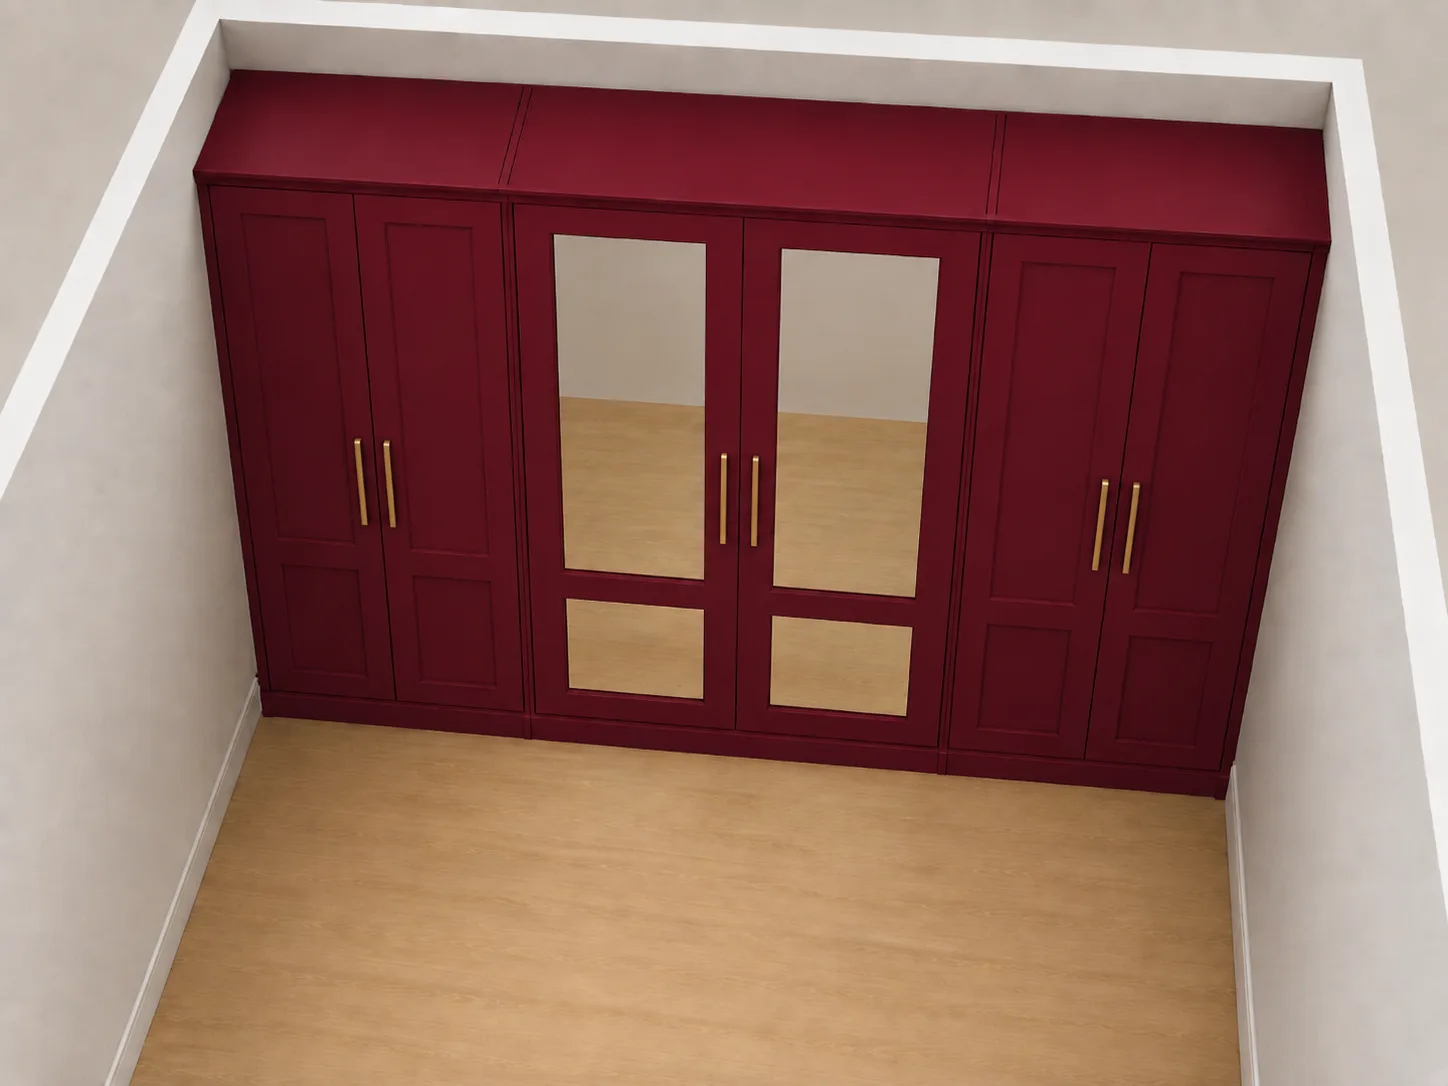
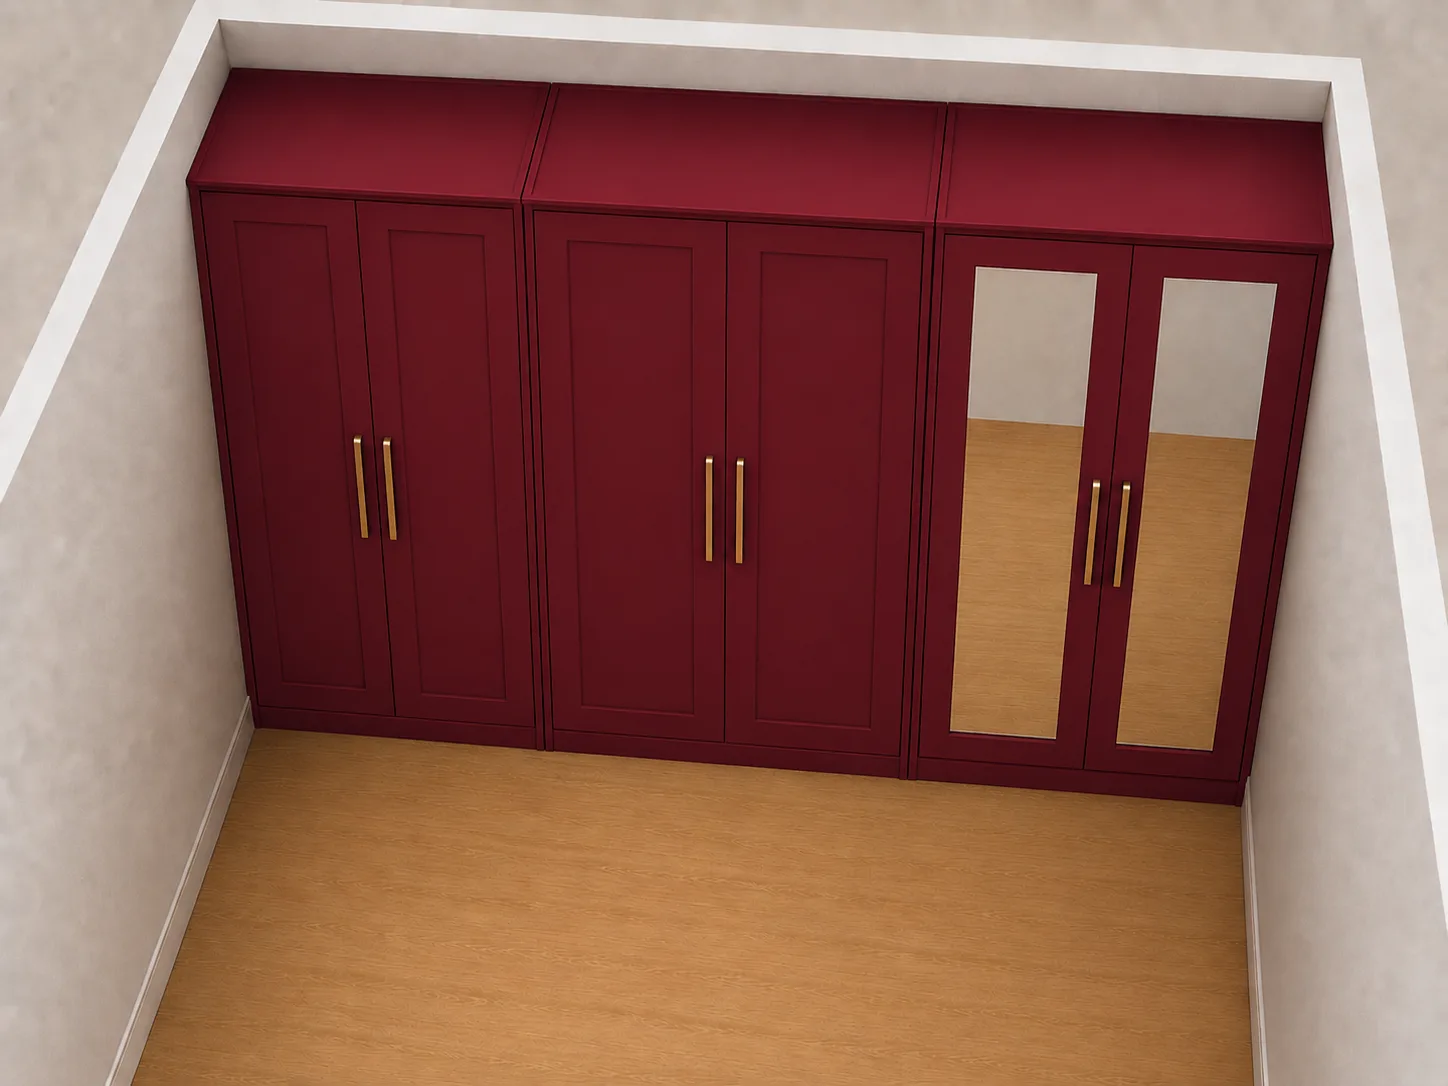
Publish site from source repo

diff --git a/home/jobs/2026/07/29/build-fitted-wardrobes-in-two-bedrooms/index.html b/home/jobs/2026/07/29/build-fitted-wardrobes-in-two-bedrooms/index.html
@@ -15,7 +15,7 @@ Home jobs
 All jobs
 </a> </nav> </header>  <a class="job-back" href="/home/jobs/">← All jobs</a> <article class="job-detail"> <header class="job-detail__header"> <div class="job-detail__eyebrow"> <span class="job-status job-status--open"> <span class="job-status__dot" aria-hidden="true"></span> Open </span> <span class="job-priority job-priority--medium"> Medium priority
 </span> </div> <h1>Build fitted wardrobes in two bedrooms</h1> <p class="job-detail__posted">
-Posted on <time datetime="2026-07-29"> 29 July 2026 </time> </p> </header> <div class="job-description"> <p>Two fitted wardrobes, on the walls shown in the model views. The schematics are the reference for carcass sizes, bay widths and internal layout.</p><div class="job-carousel" data-job-carousel aria-label="Model views of both wardrobes"> <div class="job-carousel__viewport" id="build-fitted-wardrobes-in-two-bedrooms-photos-2" tabindex="0"> <div class="job-carousel__track"> <figure class="job-carousel__slide" role="group" aria-roledescription="slide" aria-label="1 of 2"> <a href="/images/home/jobs/build-fitted-wardrobes-in-two-bedrooms/ground-floor-model.webp" target="_blank" rel="noopener"> <img src="/images/home/jobs/build-fitted-wardrobes-in-two-bedrooms/ground-floor-model.webp" alt="Cutaway render of the ground-floor bedroom seen from above. A sage green wardrobe stands against the far wall beside a doorway, with four tall shaker doors in two pairs and the top of a separate upper run visible above them. Each tall door has a tall upper panel over a short lower panel, with slim brass bar handles at the meeting stiles. A bay window occupies the opposite side of the room." loading="lazy"> </a> <figcaption> <span>Ground-floor wardrobe in position, running along the wall beside the doorway with the bay window opposite.</span> <strong>Reference</strong> </figcaption> </figure><figure class="job-carousel__slide" role="group" aria-roledescription="slide" aria-label="2 of 2"> <a href="/images/home/jobs/build-fitted-wardrobes-in-two-bedrooms/first-floor-model.webp" target="_blank" rel="noopener"> <img src="/images/home/jobs/build-fitted-wardrobes-in-two-bedrooms/first-floor-model.webp" alt="Cutaway render of the first-floor second bedroom seen from above. A deep red wardrobe runs the full width of the far wall in three bays, with two tall shaker doors to each bay and the top of a separate upper run visible above them. Each tall door has a tall upper panel over a short lower panel. On the middle bay both panels of both doors are mirrored." loading="lazy"> </a> <figcaption> <span>First-floor wardrobe in position, three bays wide with the mirrored doors on the middle bay.</span> <strong>Reference</strong> </figcaption> </figure> </div> </div>  <p class="job-carousel__count" aria-live="polite"> <span data-carousel-current>1</span> / 2 </p> <div class="job-carousel__controls"> <button type="button" data-carousel-previous aria-controls="build-fitted-wardrobes-in-two-bedrooms-photos-2" aria-label="Previous photo"> <svg viewBox="0 0 24 24" aria-hidden="true"> <path d="m15 18-6-6 6-6"></path> </svg> </button> <button type="button" data-carousel-next aria-controls="build-fitted-wardrobes-in-two-bedrooms-photos-2" aria-label="Next photo"> <svg viewBox="0 0 24 24" aria-hidden="true"> <path d="m9 18 6-6-6-6"></path> </svg> </button> </div>  </div> <script type="module">for(const r of document.querySelectorAll("[data-job-carousel]")){let l=function(){const t=e[0].offsetLeft;o=e.reduce((a,s,L)=>{const y=Math.abs(e[a].offsetLeft-t-n.scrollLeft);return Math.abs(s.offsetLeft-t-n.scrollLeft)<y?L:a},0),u&&(u.textContent=String(o+1)),e.forEach((a,s)=>{s===o?a.setAttribute("aria-current","true"):a.removeAttribute("aria-current")})},c=function(t){const a=(t+e.length)%e.length;n.scrollTo({left:e[a].offsetLeft-e[0].offsetLeft,behavior:"smooth"})};if(r.dataset.carouselReady==="true")continue;r.dataset.carouselReady="true";const n=r.querySelector(".job-carousel__viewport"),e=Array.from(r.querySelectorAll(".job-carousel__slide")),u=r.querySelector("[data-carousel-current]"),i=r.querySelector("[data-carousel-previous]"),d=r.querySelector("[data-carousel-next]");if(!n||e.length<2)continue;let o=0,f=0;n.addEventListener("scroll",()=>{cancelAnimationFrame(f),f=requestAnimationFrame(l)}),n.addEventListener("keydown",t=>{t.key==="ArrowLeft"&&(t.preventDefault(),c(o-1)),t.key==="ArrowRight"&&(t.preventDefault(),c(o+1))}),i?.addEventListener("click",()=>c(o-1)),d?.addEventListener("click",()=>c(o+1)),l()}</script><div class="job-carousel" data-job-carousel aria-label="Internal layout schematics"> <div class="job-carousel__viewport" id="build-fitted-wardrobes-in-two-bedrooms-photos-3" tabindex="0"> <div class="job-carousel__track"> <figure class="job-carousel__slide" role="group" aria-roledescription="slide" aria-label="1 of 2"> <a href="/images/home/jobs/build-fitted-wardrobes-in-two-bedrooms/ground-floor-schematic.webp" target="_blank" rel="noopener"> <img src="/images/home/jobs/build-fitted-wardrobes-in-two-bedrooms/ground-floor-schematic.webp" alt="Elevation schematic of the ground-floor wardrobe, 200 cm wide by 250 cm high by 65 cm deep, split into two equal 100 cm bays. A shelf compartment runs across the top of both bays. Below it the left bay is hanging space the full depth of the run and the right bay is a run of four shelves. Two drawers and then a deep open storage compartment sit at the foot of each bay." loading="lazy"> </a> <figcaption> <span>Ground-floor wardrobe: two equal bays, hanging on the left, shelves on the right, with the deep storage compartment at the very bottom.</span> <strong>Reference</strong> </figcaption> </figure><figure class="job-carousel__slide" role="group" aria-roledescription="slide" aria-label="2 of 2"> <a href="/images/home/jobs/build-fitted-wardrobes-in-two-bedrooms/first-floor-schematic.webp" target="_blank" rel="noopener"> <img src="/images/home/jobs/build-fitted-wardrobes-in-two-bedrooms/first-floor-schematic.webp" alt="Elevation schematic of the first-floor wardrobe, 260 cm wide by 207 cm high by 65 cm deep, split into three equal 86.7 cm bays. The outer two bays have two shelf compartments at the top over a run of four shelves. The middle bay has one shelf compartment over a short hanging rail. All three bays finish with an open storage compartment and then two drawers at the very bottom." loading="lazy"> </a> <figcaption> <span>First-floor wardrobe: three equal bays, short hanging in the middle bay, shelves either side, with the drawers at the very bottom.</span> <strong>Reference</strong> </figcaption> </figure> </div> </div>  <p class="job-carousel__count" aria-live="polite"> <span data-carousel-current>1</span> / 2 </p> <div class="job-carousel__controls"> <button type="button" data-carousel-previous aria-controls="build-fitted-wardrobes-in-two-bedrooms-photos-3" aria-label="Previous photo"> <svg viewBox="0 0 24 24" aria-hidden="true"> <path d="m15 18-6-6 6-6"></path> </svg> </button> <button type="button" data-carousel-next aria-controls="build-fitted-wardrobes-in-two-bedrooms-photos-3" aria-label="Next photo"> <svg viewBox="0 0 24 24" aria-hidden="true"> <path d="m9 18 6-6-6-6"></path> </svg> </button> </div>  </div> <p>Every compartment sits behind doors. <strong>No niche or shelf is open to the room.</strong> Where a schematic says “open storage”, read it as a shelf compartment: the drawing implies a distinction that is not there.</p><div class="job-description__list"> <p>What the schematics do not show:</p> <ul><li>Compartment heights <strong>add up to the external carcass height</strong>. Carcass, shelf, plinth and top-rail thicknesses come <strong>out of</strong> those figures, not on top of them.</li><li>The first-floor bays are <strong>not identical inside</strong>. The middle bay drops the second shelf compartment so its hanging space runs higher. Everything below that lines up across all three.</li></ul> </div><div class="job-description__list"> <p><strong>Both wardrobes are to be lit inside</strong>, with the wiring route planned before the carcasses are built.</p> <ul><li><strong>Warm white LED</strong> strip down <strong>both side panels of every bay</strong>, out of direct view.</li><li><strong>Door-activated switching</strong>, so a bay lights when its door opens.</li><li>Drivers and cabling <strong>concealed in the carcass</strong>. No visible trunking.</li><li>A concealed <strong>fused spur</strong>, not a trailing plug lead.</li></ul> </div><div class="job-description__list"> <p>Materials:</p> <ul><li><strong>MDF for every door and drawer front</strong>, not MFC.</li><li><strong>MFC</strong> for carcasses, shelves and drawer boxes, with <strong>matching ABS edging</strong> on visible edges.</li><li><strong>MDF</strong> also for plinths, back panels and scribe fillets.</li><li><strong>Matt throughout.</strong> No gloss, no woodgrain, no patterned decor.</li><li><strong>Fixed shelves</strong>, built into the carcass. <strong>Nothing adjustable.</strong></li></ul> </div><p>The fronts are <strong>painted and spray-finished</strong> on <strong>22 mm</strong> MDF, hard-wearing enough for daily handling. <strong>No foil or vinyl wrap</strong> — summers here now get hot enough to lift and delaminate it.</p><p>Painted MDF and MFC will not match by being ordered to the same colour name. <strong>Door and carcass samples must be approved side by side</strong> before anything is ordered. End panels, plinth and top rail follow the doors, not the carcass interiors.</p><div class="job-swatches"> <p>One colour per wardrobe, to be settled against a <strong>RAL</strong> or paint-brand reference. The renders are not colour-accurate.</p> <ul> <li> <span class="job-swatches__chip" style="--swatch: #6e7f6d" aria-hidden="true"></span> <span class="job-swatches__label"> <strong>Eucalyptus green</strong> <span class="job-swatches__hex">#6e7f6d</span> <span class="job-swatches__note">Ground-floor wardrobe.</span> </span> </li><li> <span class="job-swatches__chip" style="--swatch: #733635" aria-hidden="true"></span> <span class="job-swatches__label"> <strong>Garnet red</strong> <span class="job-swatches__hex">#733635</span> <span class="job-swatches__note">First-floor wardrobe.</span> </span> </li> </ul> </div><div class="job-description__list"> <p>Style is simple Scandinavian: quiet, solid and unfussy.</p> <ul><li><strong>Two-panel shaker doors and drawer fronts throughout</strong>: a plain frame around recessed flat panels, a tall panel over a short one on the tall doors. <strong>No flat slab fronts, no flush trimless detailing.</strong></li><li><strong>Slim plain handles</strong>, bar or tubular, one finish throughout.</li><li>Hinged doors, <strong>two to a bay</strong>, with separate shorter doors over the upper compartments.</li><li><strong>Soft-close hinges and drawer runners</strong> throughout.</li><li>Scribed to walls, floor and ceiling. Assume both rooms are out of true.</li></ul> </div><p>On the first-floor wardrobe, <strong>both doors of the middle bay</strong> are mirrored: a mirror in place of the flat panel, in <strong>both panels of each door</strong>. Safety-backed, held by the shaker frame rather than fixed on afterwards.</p> </div> <section class="job-section job-materials" aria-labelledby="materials-heading"> <h2 id="materials-heading">Materials</h2> <ul> <li><strong>22 mm</strong> MDF for every shaker door and drawer front</li><li>Hard-wearing spray finish in the chosen colour</li><li>MFC panels for the ground-floor carcasses in the nearest <strong>matt eucalyptus green</strong> decor</li><li>MFC panels for the first-floor carcasses in the nearest <strong>matt garnet red</strong> decor</li><li>Matching ABS edging</li><li>MDF for plinths, back panels and scribe fillets</li><li>Hanging rails and end supports</li><li>Soft-close hinges and drawer runners</li><li>Safety-backed mirror panels, <strong>two per door</strong>, for both doors of the first-floor middle bay</li><li>Slim bar handles in a single finish</li><li>Warm white LED strips, drivers and door switches</li> </ul> </section>  </article>  </div>  </main> </div>  <script type="module">const c=document.getElementById("theme-toggle"),t=document.getElementById("theme-icon"),m=`
+Posted on <time datetime="2026-07-29"> 29 July 2026 </time> </p> </header> <div class="job-description"> <p>Two fitted wardrobes, on the walls shown in the model views. The schematics are the reference for carcass sizes, bay widths and internal layout.</p><div class="job-carousel" data-job-carousel aria-label="Model views of both wardrobes"> <div class="job-carousel__viewport" id="build-fitted-wardrobes-in-two-bedrooms-photos-2" tabindex="0"> <div class="job-carousel__track"> <figure class="job-carousel__slide" role="group" aria-roledescription="slide" aria-label="1 of 2"> <a href="/images/home/jobs/build-fitted-wardrobes-in-two-bedrooms/ground-floor-model.webp" target="_blank" rel="noopener"> <img src="/images/home/jobs/build-fitted-wardrobes-in-two-bedrooms/ground-floor-model.webp" alt="Cutaway render of the ground-floor bedroom seen from above. A dark green wardrobe stands against the far wall beside a doorway, with four tall shaker doors in two pairs and the top of a separate upper run visible above them. Each tall door has a tall upper panel over a short lower panel, with slim brass bar handles at the meeting stiles. A bay window occupies the opposite side of the room." loading="lazy"> </a> <figcaption> <span>Ground-floor wardrobe in position, running along the wall beside the doorway with the bay window opposite.</span> <strong>Reference</strong> </figcaption> </figure><figure class="job-carousel__slide" role="group" aria-roledescription="slide" aria-label="2 of 2"> <a href="/images/home/jobs/build-fitted-wardrobes-in-two-bedrooms/first-floor-model.webp" target="_blank" rel="noopener"> <img src="/images/home/jobs/build-fitted-wardrobes-in-two-bedrooms/first-floor-model.webp" alt="Cutaway render of the first-floor second bedroom seen from above. A deep red wardrobe runs the full width of the far wall in three bays, with two tall shaker doors to each bay and the top of a separate upper run visible above them. Each tall door has one unbroken full-height recessed panel. On the right-hand bay that panel is a mirror in both doors." loading="lazy"> </a> <figcaption> <span>First-floor wardrobe in position, three bays wide with the mirrored doors on the third bay.</span> <strong>Reference</strong> </figcaption> </figure> </div> </div>  <p class="job-carousel__count" aria-live="polite"> <span data-carousel-current>1</span> / 2 </p> <div class="job-carousel__controls"> <button type="button" data-carousel-previous aria-controls="build-fitted-wardrobes-in-two-bedrooms-photos-2" aria-label="Previous photo"> <svg viewBox="0 0 24 24" aria-hidden="true"> <path d="m15 18-6-6 6-6"></path> </svg> </button> <button type="button" data-carousel-next aria-controls="build-fitted-wardrobes-in-two-bedrooms-photos-2" aria-label="Next photo"> <svg viewBox="0 0 24 24" aria-hidden="true"> <path d="m9 18 6-6-6-6"></path> </svg> </button> </div>  </div> <script type="module">for(const r of document.querySelectorAll("[data-job-carousel]")){let l=function(){const t=e[0].offsetLeft;o=e.reduce((a,s,L)=>{const y=Math.abs(e[a].offsetLeft-t-n.scrollLeft);return Math.abs(s.offsetLeft-t-n.scrollLeft)<y?L:a},0),u&&(u.textContent=String(o+1)),e.forEach((a,s)=>{s===o?a.setAttribute("aria-current","true"):a.removeAttribute("aria-current")})},c=function(t){const a=(t+e.length)%e.length;n.scrollTo({left:e[a].offsetLeft-e[0].offsetLeft,behavior:"smooth"})};if(r.dataset.carouselReady==="true")continue;r.dataset.carouselReady="true";const n=r.querySelector(".job-carousel__viewport"),e=Array.from(r.querySelectorAll(".job-carousel__slide")),u=r.querySelector("[data-carousel-current]"),i=r.querySelector("[data-carousel-previous]"),d=r.querySelector("[data-carousel-next]");if(!n||e.length<2)continue;let o=0,f=0;n.addEventListener("scroll",()=>{cancelAnimationFrame(f),f=requestAnimationFrame(l)}),n.addEventListener("keydown",t=>{t.key==="ArrowLeft"&&(t.preventDefault(),c(o-1)),t.key==="ArrowRight"&&(t.preventDefault(),c(o+1))}),i?.addEventListener("click",()=>c(o-1)),d?.addEventListener("click",()=>c(o+1)),l()}</script><div class="job-carousel" data-job-carousel aria-label="Internal layout schematics"> <div class="job-carousel__viewport" id="build-fitted-wardrobes-in-two-bedrooms-photos-3" tabindex="0"> <div class="job-carousel__track"> <figure class="job-carousel__slide" role="group" aria-roledescription="slide" aria-label="1 of 2"> <a href="/images/home/jobs/build-fitted-wardrobes-in-two-bedrooms/ground-floor-schematic.webp" target="_blank" rel="noopener"> <img src="/images/home/jobs/build-fitted-wardrobes-in-two-bedrooms/ground-floor-schematic.webp" alt="Elevation schematic of the ground-floor wardrobe, 200 cm wide by 250 cm high by 65 cm deep, split into two equal 100 cm bays. A shelf compartment runs across the top of both bays. Below it the left bay is hanging space the full depth of the run and the right bay is a run of four shelves. Two drawers and then a deep open storage compartment sit at the foot of each bay." loading="lazy"> </a> <figcaption> <span>Ground-floor wardrobe: two equal bays, hanging on the left, shelves on the right, with the deep storage compartment at the very bottom.</span> <strong>Reference</strong> </figcaption> </figure><figure class="job-carousel__slide" role="group" aria-roledescription="slide" aria-label="2 of 2"> <a href="/images/home/jobs/build-fitted-wardrobes-in-two-bedrooms/first-floor-schematic.webp" target="_blank" rel="noopener"> <img src="/images/home/jobs/build-fitted-wardrobes-in-two-bedrooms/first-floor-schematic.webp" alt="Elevation schematic of the first-floor wardrobe, 260 cm wide by 207 cm high by 65 cm deep, split into three equal 86.7 cm bays. The outer two bays have two shelf compartments at the top over a run of four shelves. The middle bay has one shelf compartment over a short hanging rail. All three bays finish with an open storage compartment and then two drawers at the very bottom." loading="lazy"> </a> <figcaption> <span>First-floor wardrobe: three equal bays, short hanging in the middle bay, shelves either side, with the drawers at the very bottom.</span> <strong>Reference</strong> </figcaption> </figure> </div> </div>  <p class="job-carousel__count" aria-live="polite"> <span data-carousel-current>1</span> / 2 </p> <div class="job-carousel__controls"> <button type="button" data-carousel-previous aria-controls="build-fitted-wardrobes-in-two-bedrooms-photos-3" aria-label="Previous photo"> <svg viewBox="0 0 24 24" aria-hidden="true"> <path d="m15 18-6-6 6-6"></path> </svg> </button> <button type="button" data-carousel-next aria-controls="build-fitted-wardrobes-in-two-bedrooms-photos-3" aria-label="Next photo"> <svg viewBox="0 0 24 24" aria-hidden="true"> <path d="m9 18 6-6-6-6"></path> </svg> </button> </div>  </div> <p>Every compartment sits behind doors. <strong>No niche or shelf is open to the room.</strong> Where a schematic says “open storage”, read it as a shelf compartment: the drawing implies a distinction that is not there.</p><div class="job-description__list"> <p>What the schematics do not show:</p> <ul><li>Compartment heights <strong>add up to the external carcass height</strong>. Carcass, shelf, plinth and top-rail thicknesses come <strong>out of</strong> those figures, not on top of them.</li><li>The first-floor bays are <strong>not identical inside</strong>. The middle bay drops the second shelf compartment so its hanging space runs higher. Everything below that lines up across all three.</li></ul> </div><div class="job-description__list"> <p><strong>Both wardrobes are to be lit inside</strong>, with the wiring route planned before the carcasses are built.</p> <ul><li><strong>Warm white LED</strong> strip down <strong>both side panels of every bay</strong>, out of direct view.</li><li><strong>Door-activated switching</strong>, so a bay lights when its door opens.</li><li>Drivers and cabling <strong>concealed in the carcass</strong>. No visible trunking.</li><li>A concealed <strong>fused spur</strong>, not a trailing plug lead.</li></ul> </div><div class="job-description__list"> <p>Materials:</p> <ul><li><strong>MDF for every door and drawer front</strong>, not MFC.</li><li><strong>MFC</strong> for carcasses, shelves and drawer boxes, with <strong>matching ABS edging</strong> on visible edges.</li><li><strong>MDF</strong> also for plinths, back panels and scribe fillets.</li><li><strong>Matt throughout.</strong> No gloss, no woodgrain, no patterned decor.</li><li><strong>Fixed shelves</strong>, built into the carcass. <strong>Nothing adjustable.</strong></li></ul> </div><p>The fronts are <strong>painted and spray-finished</strong> on <strong>22 mm</strong> MDF, hard-wearing enough for daily handling. <strong>No foil or vinyl wrap</strong> — summers here now get hot enough to lift and delaminate it.</p><p>Painted MDF and MFC will not match by being ordered to the same colour name. <strong>Door and carcass samples must be approved side by side</strong> before anything is ordered. End panels, plinth and top rail follow the doors, not the carcass interiors.</p><div class="job-swatches"> <p>One colour per wardrobe, to be settled against a <strong>RAL</strong> or paint-brand reference. Take the colour from these values, not from the renders.</p> <ul> <li> <span class="job-swatches__chip" style="--swatch: #014137" aria-hidden="true"></span> <span class="job-swatches__label"> <strong>Buckingham Green</strong> <span class="job-swatches__hex">#014137</span> <span class="job-swatches__note">Ground-floor wardrobe.</span> </span> </li><li> <span class="job-swatches__chip" style="--swatch: #733635" aria-hidden="true"></span> <span class="job-swatches__label"> <strong>Garnet red</strong> <span class="job-swatches__hex">#733635</span> <span class="job-swatches__note">First-floor wardrobe.</span> </span> </li> </ul> </div><div class="job-description__list"> <p>Style is simple Scandinavian: quiet, solid and unfussy.</p> <ul><li><strong>Shaker doors and drawer fronts throughout</strong>: a plain frame around a recessed flat panel. <strong>No flat slab fronts, no flush trimless detailing.</strong></li><li>The tall doors are panelled differently on each wardrobe. <strong>Ground floor: two panels</strong>, a tall one over a short one. <strong>First floor: one full-height panel, with no cross rail.</strong></li><li><strong>Slim plain handles</strong>, bar or tubular, one finish throughout.</li><li>Hinged doors, <strong>two to a bay</strong>, with separate shorter doors over the upper compartments.</li><li><strong>Soft-close hinges and drawer runners</strong> throughout.</li><li><strong>Soft-push opening on every door and every drawer</strong>, on both wardrobes. Handles are fitted <strong>as well as</strong> the push mechanism, not in place of it.</li><li>Scribed to walls, floor and ceiling. Assume both rooms are out of true.</li></ul> </div><p>On the first-floor wardrobe, <strong>both doors of bay B3</strong> — the right-hand bay as the room sees it — are mirrored: <strong>one unbroken full-height mirror per door</strong>, in place of the flat panel. Safety-backed, held by the shaker frame rather than fixed on afterwards.</p> </div> <section class="job-section job-materials" aria-labelledby="materials-heading"> <h2 id="materials-heading">Materials</h2> <ul> <li><strong>22 mm</strong> MDF for every shaker door and drawer front</li><li>Hard-wearing spray finish in the chosen colour</li><li>MFC panels for the ground-floor carcasses in the nearest <strong>matt Buckingham Green</strong> decor</li><li>MFC panels for the first-floor carcasses in the nearest <strong>matt garnet red</strong> decor</li><li>Matching ABS edging</li><li>MDF for plinths, back panels and scribe fillets</li><li>Hanging rails and end supports</li><li>Soft-close hinges and drawer runners</li><li>Soft-push latches for every door and drawer</li><li>Safety-backed mirror panels, <strong>one full-height panel per door</strong>, for both doors of first-floor bay <strong>B3</strong></li><li>Slim bar handles in a single finish</li><li>Warm white LED strips, drivers and door switches</li> </ul> </section>  </article>  </div>  </main> </div>  <script type="module">const c=document.getElementById("theme-toggle"),t=document.getElementById("theme-icon"),m=`
         <circle cx="12" cy="12" r="4" />
         <path d="M12 2.5v2.25M12 19.25v2.25M21.5 12h-2.25M4.75 12H2.5M18.72 5.28l-1.59 1.59M6.87 17.13l-1.59 1.59M18.72 18.72l-1.59-1.59M6.87 6.87L5.28 5.28" />
       `,d=`
